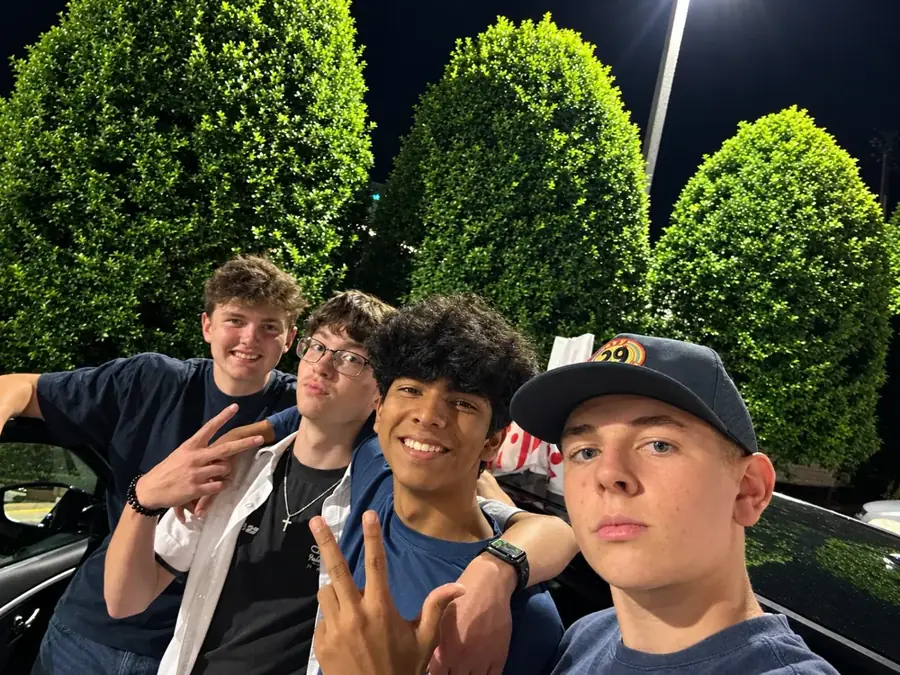
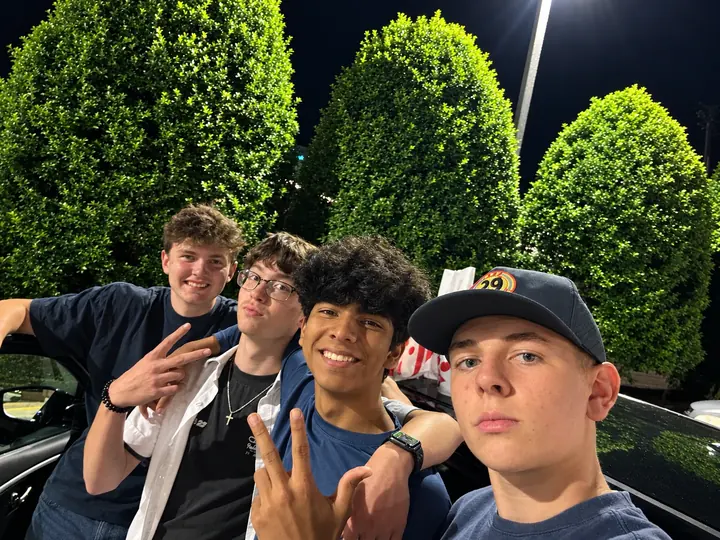
Fill the scrapbook with photos from the Drive folder
- 15 photos instead of the empty "photo goes here" spots: friends, the
  puppy and a cat, the Cessna, window-seat shots, Utah, mountain biking,
  Pysino mid-build, and Red Bull.
- Each photo has a small, cropped version for the page and a large one
  that only loads when it's opened in the viewer.
- New tools/scrapbook-photo.py makes both versions from any photo: reads
  iPhone HEIC, converts Display P3 to sRGB, crops to the tile shape, keeps
  files small, and strips all metadata (including GPS location). Every
  image on the site was checked: none carry EXIF, GPS, XMP or ICC data.
- The browser tabs on the laptop in the cat photo are blurred.
- READMEs explain the new way to add scrapbook photos.

Claude-Session: https://claude.ai/code/session_0179nMkU1TWy3KZr4kKWyY55

diff --git a/js/data.js b/js/data.js
@@ -481,28 +481,62 @@ window.PORTFOLIO = {
   },
 
   /* "Scrapbook": photos from life, taped into a sketchbook.
-     Put the photos in assets/img/scrapbook/, then fill in `src` for a spot.
-     A spot without a `src` shows as an empty "photo goes here" frame. Delete the spots
-     you don't need, or copy a line to add more.
-     shape: "tall" (3:4), "wide" (4:3) or "square". Photos are cropped to fit the shape. */
+     To add one, run it through tools/scrapbook-photo.py (it makes both files below,
+     handles iPhone HEIC photos and strips the GPS location), then paste the line it
+     prints into this list. Or put any photo in assets/img/scrapbook/ and add a line
+     with just `src`.
+     src:   the small version shown on the page
+     full:  (optional) the big version that opens when the photo is clicked
+     shape: "tall" (3:4), "wide" (4:3) or "square". Photos are cropped to fit.
+     A line with an empty `src` shows as an empty "photo goes here" frame. */
   scrapbook: {
-    note: "the camera roll, minus the planes",
+    note: "straight from the camera roll",
     photos: [
-      { src: "assets/img/scrapbook/friends.webp", caption: "the crew", shape: "wide",
+      { src: "assets/img/scrapbook/friends.webp", full: "assets/img/scrapbook/friends-full.webp",
+        caption: "the crew", shape: "wide",
         alt: "Four friends taking a selfie at night in front of tall hedges" },
-      { src: "", caption: "", shape: "tall" },
-      { src: "", caption: "", shape: "square" },
-      { src: "", caption: "", shape: "square" },
-      { src: "assets/img/scrapbook/puppy.webp", caption: "puppy. very important.", shape: "tall",
+      { src: "assets/img/scrapbook/cessna.webp", full: "assets/img/scrapbook/cessna-full.webp",
+        caption: "me + a Cessna 172", shape: "tall",
+        alt: "William standing on an airport ramp in front of a white Cessna 172, with another Cessna parked behind" },
+      { src: "assets/img/scrapbook/essentials.webp", full: "assets/img/scrapbook/essentials-full.webp",
+        caption: "the essentials", shape: "wide",
+        alt: "A mountain bike leaning against a tree beside a table with a helmet and a can of Red Bull" },
+      { src: "assets/img/scrapbook/pysino.webp", full: "assets/img/scrapbook/pysino-full.webp",
+        caption: "Pysino, mid-build", shape: "wide",
+        alt: "A monitor in a dark room showing the Pysino code in an editor next to a terminal on an Arch Linux desktop" },
+      { src: "assets/img/scrapbook/send-it.webp", full: "assets/img/scrapbook/send-it-full.webp",
+        caption: "send it", shape: "square",
+        alt: "William in mid-air on a mountain bike after launching off a wooden ramp in the woods" },
+      { src: "assets/img/scrapbook/red-bull.webp", full: "assets/img/scrapbook/red-bull-full.webp",
+        caption: "refuel stop", shape: "tall",
+        alt: "William and a friend taking a selfie, each holding up a can of Red Bull" },
+      { src: "assets/img/scrapbook/overlook.webp", full: "assets/img/scrapbook/overlook-full.webp",
+        caption: "up top", shape: "wide",
+        alt: "A view over forested hills from a rocky overlook" },
+      { src: "assets/img/scrapbook/winglet.webp", full: "assets/img/scrapbook/winglet-full.webp",
+        caption: "winglet view", shape: "square",
+        alt: "An airplane winglet over a sea of clouds" },
+      { src: "assets/img/scrapbook/window-seat.webp", full: "assets/img/scrapbook/window-seat-full.webp",
+        caption: "window seat", shape: "tall",
+        alt: "Mountains and clouds seen from an airplane window" },
+      { src: "assets/img/scrapbook/turret-arch.webp", full: "assets/img/scrapbook/turret-arch-full.webp",
+        caption: "Turret Arch, Utah", shape: "wide",
+        alt: "Turret Arch, a red sandstone arch, under a deep blue sky" },
+      { src: "assets/img/scrapbook/kali-cat.webp", full: "assets/img/scrapbook/kali-cat-full.webp",
+        caption: "supervising the Kali install", shape: "square",
+        alt: "A calico cat sitting in front of a monitor showing the Kali Linux installer, next to an open laptop" },
+      { src: "assets/img/scrapbook/ride-crew.webp", full: "assets/img/scrapbook/ride-crew-full.webp",
+        caption: "the ride crew", shape: "wide",
+        alt: "Four friends sitting on a curb with their mountain bikes and drinks" },
+      { src: "assets/img/scrapbook/red-rock.webp", full: "assets/img/scrapbook/red-rock-full.webp",
+        caption: "red rock", shape: "tall",
+        alt: "Tall red rock formations against a bright blue sky" },
+      { src: "assets/img/scrapbook/puppy.webp", full: "assets/img/scrapbook/puppy-full.webp",
+        caption: "puppy. very important.", shape: "tall",
         alt: "William holding a fluffy black, white and brown puppy" },
-      { src: "", caption: "", shape: "wide" },
-      { src: "", caption: "", shape: "wide" },
-      { src: "", caption: "", shape: "square" },
-      { src: "assets/img/scrapbook/coke.webp", caption: "summer + glass-bottle Coke", shape: "tall",
+      { src: "assets/img/scrapbook/coke.webp", full: "assets/img/scrapbook/coke-full.webp",
+        caption: "summer + glass-bottle Coke", shape: "tall",
         alt: "William and a friend holding glass bottles of Coke under a blue sky" },
-      { src: "", caption: "", shape: "tall" },
-      { src: "", caption: "", shape: "wide" },
-      { src: "", caption: "", shape: "square" },
     ],
   },
 

diff --git a/js/main.js b/js/main.js
@@ -217,12 +217,12 @@
     function show(n) {
       at = (n + list.length) % list.length;
       const s = list[at];
-      img.src = s.src;
+      img.src = s.full || s.src;
       img.alt = smart(s.alt || s.caption || "");
       cap.textContent = smart(s.caption || "");
       count.textContent = list.length > 1 ? `${at + 1} / ${list.length}` : "";
       steps.forEach(b => { b.hidden = list.length < 2; });
-      if (list.length > 1) [at + 1, at - 1].forEach(k => { new Image().src = list[(k + list.length) % list.length].src; });
+      if (list.length > 1) [at + 1, at - 1].forEach(k => { const n = list[(k + list.length) % list.length]; new Image().src = n.full || n.src; });
     }
     // Any link with data-gallery="name" data-i="n" opens that gallery at photo n.
     document.addEventListener("click", e => {
@@ -348,7 +348,7 @@
         </li>`;
       }
       return `<li class="${cls}" style="${style}">
-          <a class="scrap-pic" href="${esc(p.src)}" data-gallery="scrapbook" data-i="${k++}" aria-label="${t(p.caption || "Photo")}, open larger">
+          <a class="scrap-pic" href="${esc(p.full || p.src)}" data-gallery="scrapbook" data-i="${k++}" aria-label="${t(p.caption || "Photo")}, open larger">
             <img src="${esc(p.src)}" alt="${t(p.alt || p.caption || "")}" loading="lazy" decoding="async">
           </a>
           ${p.caption ? `<p class="scrap-cap hand">${t(p.caption)}</p>` : ""}

diff --git a/tools/scrapbook-photo.py b/tools/scrapbook-photo.py
@@ -1,0 +1,143 @@
+#!/usr/bin/env python3
+"""
+scrapbook-photo.py: gets a phone photo ready for the Scrapbook section.
+
+    pip install pillow pillow-heif
+    python3 tools/scrapbook-photo.py ~/Pictures/IMG_1234.HEIC trail-day --shape wide
+
+It writes two files to assets/img/scrapbook/:
+  trail-day.webp       the small one on the page, already cropped to the shape
+  trail-day-full.webp  the big one that opens when someone clicks the photo
+and prints the line to paste into `scrapbook.photos` in js/data.js.
+
+It also:
+  - reads iPhone HEIC files (most browsers can't show those)
+  - converts iPhone colours (Display P3) to normal web colours (sRGB)
+  - throws away all the hidden metadata, including the GPS location the phone
+    saves in every photo. Worth it for anything taken at home.
+
+Options:
+  --shape tall|wide|square   tall is 3:4, wide is 4:3 (default: from the photo)
+  --focus X,Y                what to keep in the middle of the crop, as fractions:
+                             0,0 is top-left, 1,1 is bottom-right (default 0.5,0.5)
+  --zoom Z                   1 = the biggest crop that fits, 0.8 = zoom in a bit
+  --crop X0,Y0,X1,Y1         cut the photo down first (fractions), e.g. to leave out
+                             a screen or a window; applies to both files
+  --caption TEXT             the handwritten caption (goes in the printed line)
+"""
+import argparse
+import io
+import os
+
+from PIL import Image, ImageCms, ImageOps
+
+try:
+    import pillow_heif
+    pillow_heif.register_heif_opener()
+except ImportError:  # only needed for .HEIC files
+    pillow_heif = None
+
+GRID = {"tall": (540, 720), "wide": (720, 540), "square": (600, 600)}
+FULL_LONG_SIDE = 1600
+OUT_DIR = "assets/img/scrapbook"
+
+
+def to_srgb(im):
+    """Convert to sRGB using the photo's own colour profile, if it has one."""
+    icc = im.info.get("icc_profile")
+    im = im.convert("RGB")
+    if icc:
+        try:
+            src = ImageCms.ImageCmsProfile(io.BytesIO(icc))
+            dst = ImageCms.createProfile("sRGB")
+            im = ImageCms.profileToProfile(im, src, dst, outputMode="RGB")
+        except ImageCms.PyCMSError:
+            pass  # a broken profile: keep the pixels as they are
+    return im
+
+
+def fractions(text, n):
+    vals = [float(v) for v in text.split(",")]
+    if len(vals) != n or not all(0 <= v <= 1 for v in vals):
+        raise SystemExit(f"expected {n} numbers between 0 and 1, got {text!r}")
+    return vals
+
+
+def crop_to_shape(im, shape, fx, fy, zoom):
+    W, H = im.size
+    tw, th = GRID[shape]
+    ratio = tw / th
+    # biggest box of this shape that fits, then zoom in
+    w = min(W, H * ratio) * zoom
+    h = w / ratio
+    left = min(max(fx * W - w / 2, 0), W - w)
+    top = min(max(fy * H - h / 2, 0), H - h)
+    return im.crop((round(left), round(top), round(left + w), round(top + h)))
+
+
+def save_webp(im, path, quality, max_kb):
+    # No exif=, icc_profile= or xmp= arguments: the file goes out with no metadata.
+    # Busy photos (grass, leaves, pine straw) come out big, so step the quality
+    # down until the file fits under max_kb.
+    while True:
+        buf = io.BytesIO()
+        im.save(buf, "WEBP", quality=quality, method=6)
+        if buf.tell() <= max_kb * 1024 or quality <= 50:
+            break
+        quality -= 5
+    with open(path, "wb") as f:
+        f.write(buf.getvalue())
+
+
+def main():
+    ap = argparse.ArgumentParser(description=__doc__, formatter_class=argparse.RawDescriptionHelpFormatter)
+    ap.add_argument("photo")
+    ap.add_argument("name", help="file name to use, e.g. trail-day (no spaces)")
+    ap.add_argument("--shape", choices=GRID)
+    ap.add_argument("--focus", default="0.5,0.5")
+    ap.add_argument("--zoom", type=float, default=1.0)
+    ap.add_argument("--crop")
+    ap.add_argument("--caption", default="")
+    ap.add_argument("--out", default=OUT_DIR)
+    a = ap.parse_args()
+
+    if a.photo.lower().endswith((".heic", ".heif")) and pillow_heif is None:
+        raise SystemExit("HEIC photos need: pip install pillow-heif")
+    if not 0.1 <= a.zoom <= 1:
+        raise SystemExit("--zoom should be between 0.1 and 1")
+
+    im = Image.open(a.photo)
+    icc = im.info.get("icc_profile")
+    im = ImageOps.exif_transpose(im)
+    if icc:
+        im.info["icc_profile"] = icc
+    im = to_srgb(im)
+
+    if a.crop:
+        x0, y0, x1, y1 = fractions(a.crop, 4)
+        W, H = im.size
+        im = im.crop((round(x0 * W), round(y0 * H), round(x1 * W), round(y1 * H)))
+
+    shape = a.shape or ("tall" if im.height > im.width * 1.1 else "wide" if im.width > im.height * 1.1 else "square")
+    fx, fy = fractions(a.focus, 2)
+
+    os.makedirs(a.out, exist_ok=True)
+    grid = crop_to_shape(im, shape, fx, fy, a.zoom).resize(GRID[shape], Image.LANCZOS)
+    full = im.copy()
+    full.thumbnail((FULL_LONG_SIDE, FULL_LONG_SIDE), Image.LANCZOS)
+
+    grid_path = f"{a.out}/{a.name}.webp"
+    full_path = f"{a.out}/{a.name}-full.webp"
+    save_webp(grid, grid_path, 76, max_kb=100)
+    save_webp(full, full_path, 80, max_kb=400)
+
+    kb = lambda p: os.path.getsize(p) // 1024
+    print(f"wrote {grid_path} ({grid.width}x{grid.height}, {kb(grid_path)} KB) and "
+          f"{full_path} ({full.width}x{full.height}, {kb(full_path)} KB)")
+    caption = a.caption.replace('"', '\\"')
+    print(f'\n      {{ src: "{grid_path}", full: "{full_path}",\n'
+          f'        caption: "{caption}", shape: "{shape}", alt: "" }},')
+
+
+if __name__ == "__main__":
+    main()

diff --git a/assets/img/scrapbook/README.md b/assets/img/scrapbook/README.md
@@ -1,24 +1,37 @@
 # Scrapbook photos
 
-Photos for the **Scrapbook** section of the site go in this folder.
+Photos for the **Scrapbook** section of the site live in this folder. Each photo has two files:
+`name.webp` (the small, cropped one on the page) and `name-full.webp` (the big one that opens
+when someone clicks it).
 
-1. Upload them here. On GitHub: open this folder, then **Add file → Upload files**.
-2. In `js/data.js`, find `scrapbook` and put the file's path in an empty spot's `src`
-   (add a caption too if you like):
+## Adding a photo (the easy way)
 
-   ```js
-   { src: "assets/img/scrapbook/trail-ride.jpg", caption: "first ride of the year", shape: "tall" },
-   ```
+From the top folder of the repo:
 
-   The number on each empty spot on the site (#02, #03 …) is its position in that list.
-3. `shape` is `"tall"` (3:4), `"wide"` (4:3) or `"square"`. Photos are cropped to fit,
-   so pick the shape closest to the photo.
+```bash
+pip install pillow pillow-heif
+python3 tools/scrapbook-photo.py ~/Pictures/IMG_1234.HEIC trail-day --shape wide --caption "trail day"
+```
 
-Spots without a `src` show up as empty "photo goes here" frames. Delete the ones you
-don't need, or copy a line to add more spots.
+That makes both files here and prints a line to paste into `scrapbook.photos` in
+`js/data.js`. Fill in the `alt` text (a short description of the photo for screen readers).
 
-**Tips**
+It also reads iPhone HEIC photos, fixes iPhone colours for the web, and **removes the GPS
+location** your phone saves inside every photo, which matters for anything taken at home.
 
-- Use JPG, PNG or WebP. iPhone HEIC photos only show up in Safari, so export them as JPG.
-- Phone photos are big and slow the page down. About 1600px on the long side is plenty.
-- File names with no spaces are easiest (`beach-day.jpg`, not `Beach Day.jpg`).
+- `--shape` is `tall` (3:4), `wide` (4:3) or `square`.
+- `--focus 0.5,0.3` moves the crop (0,0 is top-left, 1,1 is bottom-right).
+- `--zoom 0.8` zooms in a bit.
+
+## Adding a photo (by hand)
+
+Drop a JPG, PNG or WebP in this folder and add a line to `scrapbook.photos`:
+
+```js
+{ src: "assets/img/scrapbook/trail-day.jpg", caption: "trail day", shape: "wide", alt: "..." },
+```
+
+Without `full`, the same file is used for both. Keep it around 1600px on the long side, use
+names without spaces, and avoid HEIC (only Safari can show it).
+
+A line with an empty `src` shows up as an empty "photo goes here" frame.

diff --git a/README.md b/README.md
@@ -16,6 +16,7 @@ assets/img/           # photos (hero.webp + hero-cut.webp are the top of the pag
 assets/img/scrapbook/ # ← drop Scrapbook photos here
 assets/og.jpg         # the preview image shown when the link is shared
 tools/hero-cutout.py  # makes the "name behind me" effect at the top
+tools/scrapbook-photo.py  # gets a phone photo ready for the scrapbook
 ```
 
 ## Editing content
@@ -41,9 +42,9 @@ The personal sections are also in `data.js`, below the projects:
   add `still: true` for something you're still learning. `now` and `next` are the sticky notes.
 - `life`: "Off the clock": the mountain biking photos (`life.mtb.photos`; the first is the
   big one), the philosophy quote, and the Red Bull fuel gauge.
-- `scrapbook`: photos taped into a sketchbook. Put photos in `assets/img/scrapbook/` and fill
-  in an empty spot's `src` (the README in that folder walks through it). Spots without a
-  photo show as empty "photo goes here" frames.
+- `scrapbook`: photos taped into a sketchbook. `tools/scrapbook-photo.py` gets a phone photo
+  ready (HEIC, colours, crop, and it strips the GPS location) and prints the line to paste in;
+  the README in `assets/img/scrapbook/` walks through it.
 
 ## Adding photos
 
